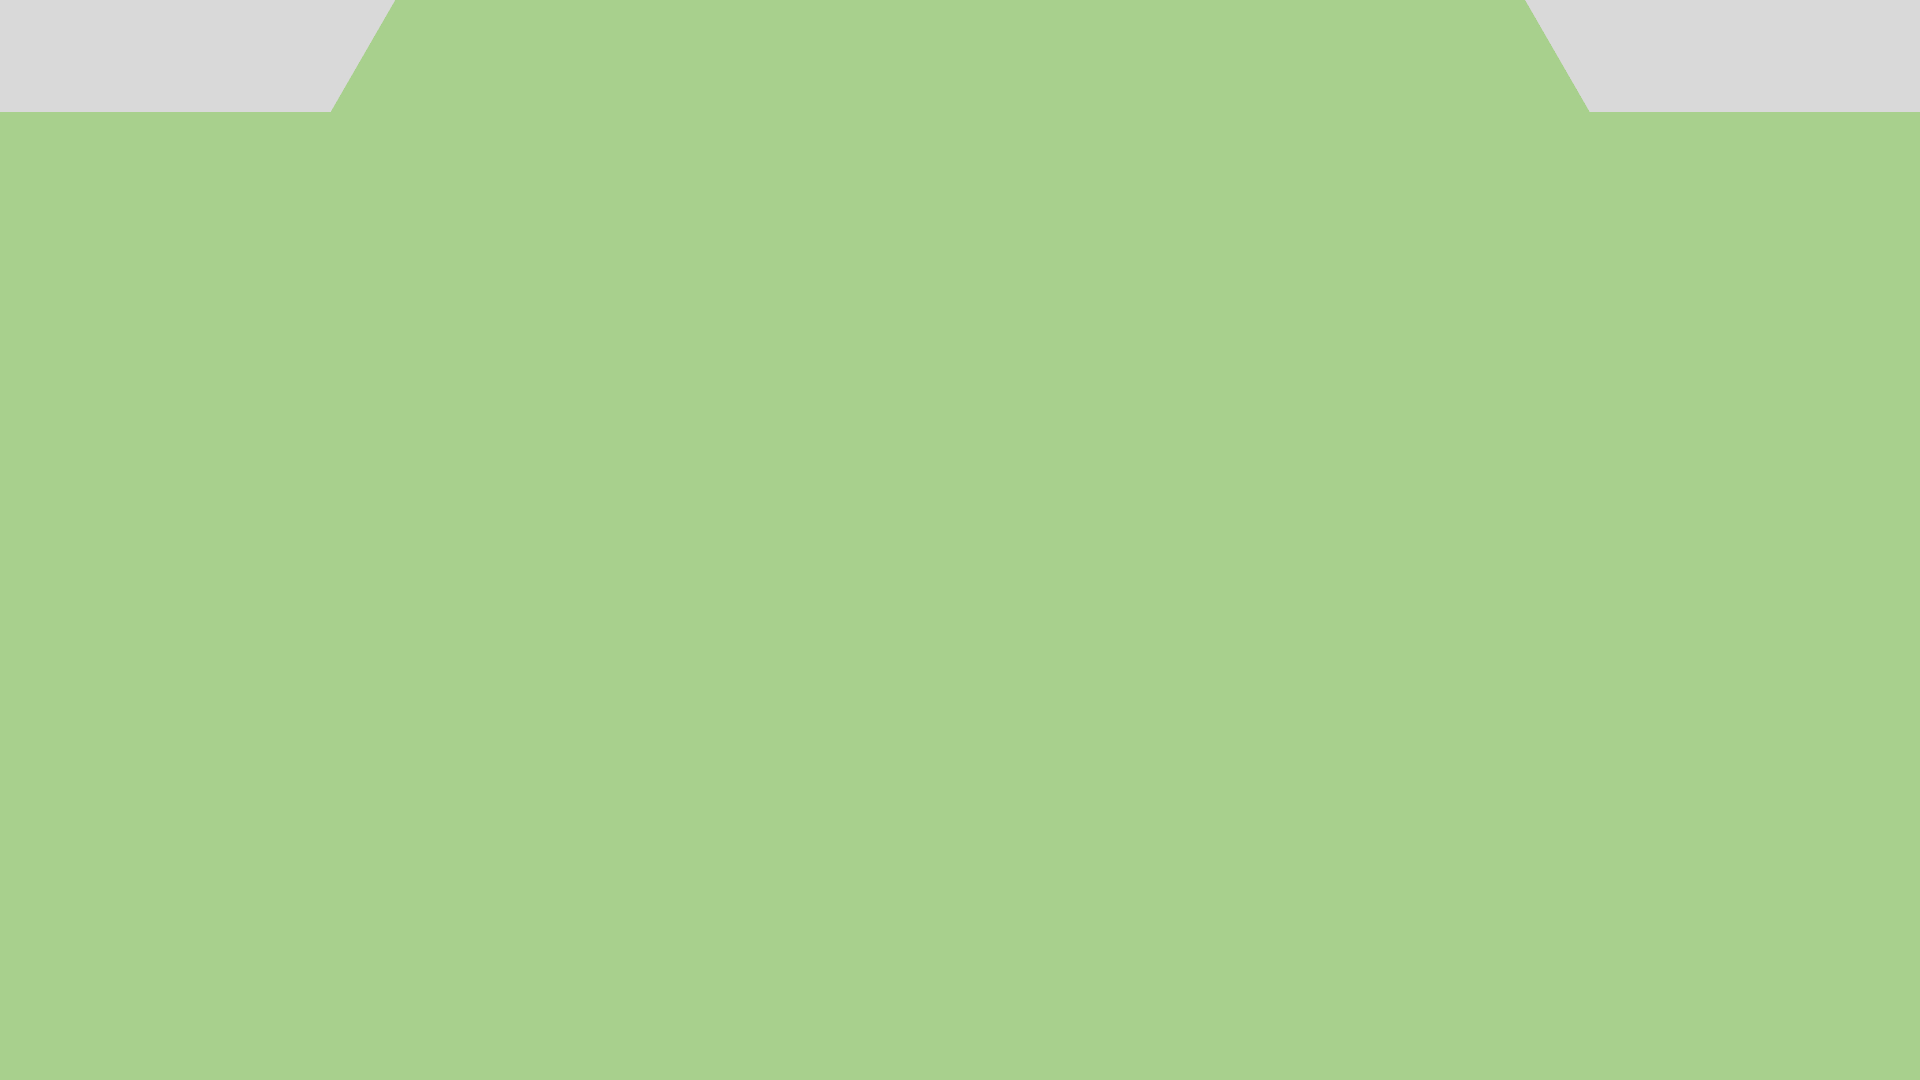
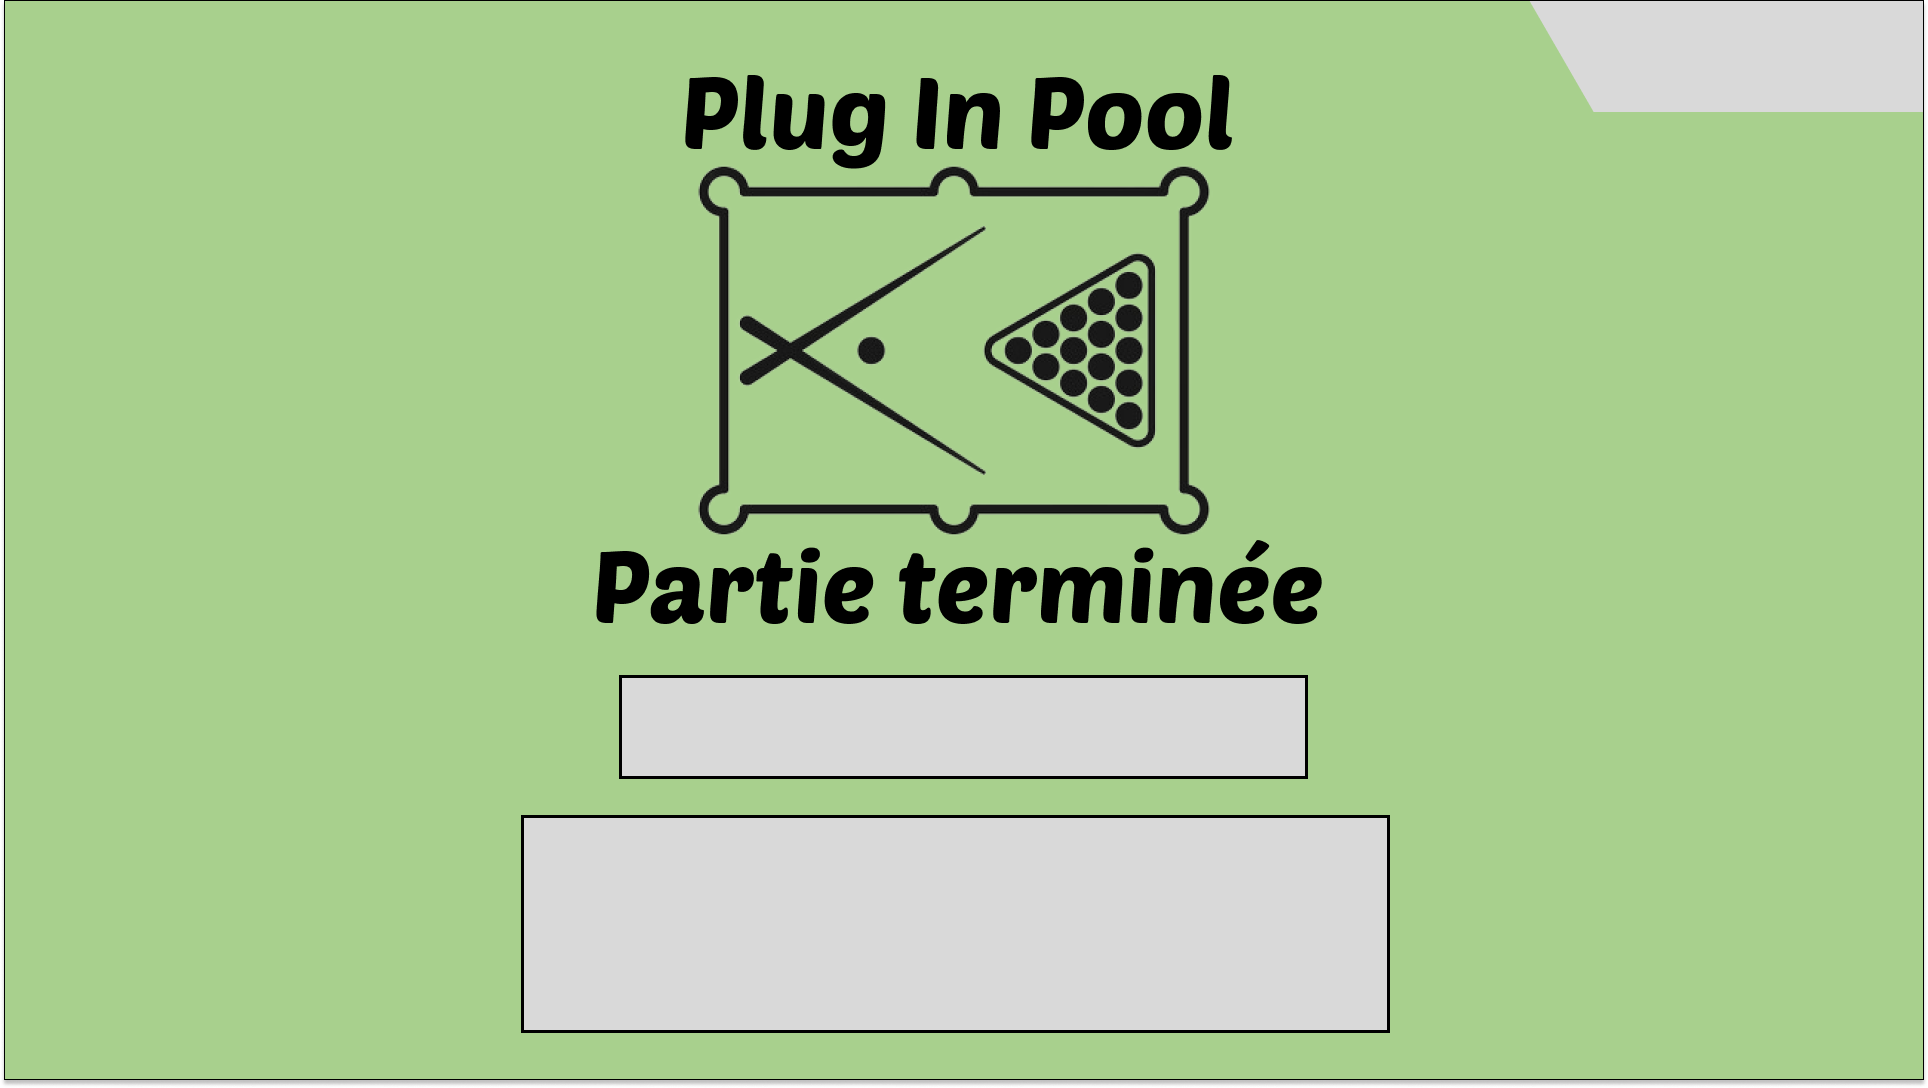
Afficher le joueur gagnant

diff --git a/plug-in-pool-visualisation/pluginpool.css b/plug-in-pool-visualisation/pluginpool.css
@@ -524,3 +524,13 @@ QWidget#ecranFin {
     margin: 0px;
     padding: 0px;
 }
+
+QLabel#affichageJoueurGagnant {
+    font-size: 45px;
+    background-color: none;
+    border: none;
+    text-align: center;
+    font-family: 'REM';
+    margin: 0px;
+    padding: 0px;
+}

diff --git a/plug-in-pool-visualisation/pluginpool.cpp b/plug-in-pool-visualisation/pluginpool.cpp
@@ -33,6 +33,11 @@ PlugInPool::PlugInPool(QObject* parent) :
             &CommunicationBluetooth::trameEmpochageRecue,
             this,
             &PlugInPool::empochage);
+
+    connect(communicationBluetooth,
+            &CommunicationBluetooth::tramePartieTermineeRecue,
+            this,
+            &PlugInPool::terminerPartie);
 }
 
 PlugInPool::~PlugInPool()
@@ -72,10 +77,7 @@ void PlugInPool::configurerMatch(int     nbManches,
                                           prenomJoueur2);
     EcranAccueil* ecranAccueil = ecranPlugInPool->getEcranAccueil();
     ecranAccueil->afficherEtatConfiguration("Configuration terminée");
-
-    QTimer::singleShot(TEMPS_AVANT_LANCEMENT_RENCONTRE,
-                       this,
-                       &PlugInPool::changerEcranMatch);
+    changerEcranMatch();
 }
 
 void PlugInPool::empochageCasse(int idPartie,
@@ -170,6 +172,16 @@ void PlugInPool::empochage(int idJoueur, int couleurBille, int idPoche)
     ecranMatch->demarrerCompteAReboursManche(TEMPS_COMPTE_A_REBOURS);
 }
 
+void PlugInPool::terminerPartie(int idPartie, int idJoueurGagnant)
+{
+    qDebug() << Q_FUNC_INFO << "idPartie" << idPartie << "idJoueurGagnant"
+             << idJoueurGagnant;
+    EcranFin* ecranFin      = ecranPlugInPool->getEcranFin();
+    QString   prenomGagnant = match->getPrenomJoueur(idJoueurGagnant);
+    ecranFin->afficherJoueurGagnant(prenomGagnant + " a gagné(e) cette partie");
+    changerEcranFin();
+}
+
 void PlugInPool::changerEcranMatch()
 {
     qDebug() << Q_FUNC_INFO;
@@ -177,4 +189,9 @@ void PlugInPool::changerEcranMatch()
     ecranPlugInPool->afficherEcranMatch();
     ecranMatch->demarrerChronometre();
     ecranMatch->demarrerCompteAReboursManche(TEMPS_COMPTE_A_REBOURS);
+}
+
+void PlugInPool::changerEcranFin()
+{
+    ecranPlugInPool->afficherEcranFin();
 }

diff --git a/plug-in-pool-visualisation/ecranfin.cpp b/plug-in-pool-visualisation/ecranfin.cpp
@@ -4,6 +4,31 @@
 EcranFin::EcranFin(QWidget* parent) : QObject(parent), ecran(parent)
 {
     qDebug() << Q_FUNC_INFO << this;
+
+    qDebug() << Q_FUNC_INFO << this;
+
+    affichageVersion       = new QLabel("v1.0", ecran);
+    affichageJoueurGagnant = new QLabel("Aucun joueur gagnant", ecran);
+
+    affichageVersion->setObjectName("affichageVersion");
+    affichageJoueurGagnant->setObjectName("affichageJoueurGagnant");
+
+    QVBoxLayout* ecranFin            = new QVBoxLayout(ecran);
+    QHBoxLayout* espaceVersion       = new QHBoxLayout();
+    QHBoxLayout* espaceJoueurGagnant = new QHBoxLayout();
+
+    espaceVersion->addStretch();
+    espaceVersion->addWidget(affichageVersion);
+
+    espaceJoueurGagnant->addStretch();
+    espaceJoueurGagnant->addWidget(affichageJoueurGagnant);
+    espaceJoueurGagnant->addStretch();
+
+    ecranFin->addLayout(espaceVersion);
+    ecranFin->addSpacing(600);
+    ecranFin->addLayout(espaceJoueurGagnant);
+    ecranFin->addSpacing(80);
+    ecranFin->addStretch();
 }
 
 EcranFin::~EcranFin()
@@ -14,4 +39,11 @@ EcranFin::~EcranFin()
 QWidget* EcranFin::getEcran() const
 {
     return ecran;
+}
+
+void EcranFin::afficherJoueurGagnant(QString prenomJoueurGagnant)
+{
+    affichageJoueurGagnant->setText(prenomJoueurGagnant);
+    affichageJoueurGagnant->setProperty("class", "configure");
+    affichageJoueurGagnant->style()->polish(affichageJoueurGagnant);
 }

diff --git a/plug-in-pool-visualisation/communicationbluetooth.cpp b/plug-in-pool-visualisation/communicationbluetooth.cpp
@@ -136,6 +136,14 @@ void CommunicationBluetooth::lireTrame()
                     emit trameEmpochageRecue(idJoueur, couleurBille, idPoche);
                     break;
                 }
+                case TRAME_PARTIE_TERMINEE:
+                {
+                    int idPartie = contenuTrame[POSITION_ID_PARTIE].toInt();
+                    int idJoueurGagnant =
+                      contenuTrame[POSITION_ID_JOUEUR_GAGNANT].toInt();
+                    emit tramePartieTermineeRecue(idPartie, idJoueurGagnant);
+                    break;
+                }
                 default:
                 {
                     break;

diff --git a/plug-in-pool-visualisation/communicationbluetooth.h b/plug-in-pool-visualisation/communicationbluetooth.h
@@ -29,6 +29,10 @@
 #define POSITION_COULEUR_BILLE_MANCHE 2
 #define POSITION_ID_POCHE_MANCHE      3
 
+#define TRAME_PARTIE_TERMINEE      'T'
+#define POSITION_ID_PARTIE         1
+#define POSITION_ID_JOUEUR_GAGNANT 2
+
 class CommunicationBluetooth : public QObject
 {
     Q_OBJECT
@@ -52,6 +56,7 @@ class CommunicationBluetooth : public QObject
                          char couleurBille,
                          int  idPoche);
     void trameEmpochageRecue(int idJoueur, int couleurBille, int idPoche);
+    void tramePartieTermineeRecue(int idPartie, int idJoueurGagnant);
 
   private slots:
     void connecterClient();

diff --git a/plug-in-pool-visualisation/ecranfin.h b/plug-in-pool-visualisation/ecranfin.h
@@ -1,18 +1,21 @@
 #ifndef ECRANFIN_H
 #define ECRANFIN_H
 
-#include <QWidget>
+#include <QtWidgets>
 
 class EcranFin : public QObject
 {
     Q_OBJECT
   private:
     QWidget* ecran;
+    QLabel*  affichageVersion;
+    QLabel*  affichageJoueurGagnant;
 
   public:
     explicit EcranFin(QWidget* parent = nullptr);
     virtual ~EcranFin();
     QWidget* getEcran() const;
+    void     afficherJoueurGagnant(QString PrenomJoueurGagnant);
 
   signals:
 };

diff --git a/plug-in-pool-visualisation/pluginpool.h b/plug-in-pool-visualisation/pluginpool.h
@@ -33,7 +33,9 @@ class PlugInPool : public QObject
                         int couleurBille,
                         int idPoche);
     void empochage(int idJoueur, int couleurBille, int idPoche);
+    void terminerPartie(int idPartie, int idJoueurGagnant);
     void changerEcranMatch();
+    void changerEcranFin();
 };
 
 #endif // PLUGINPOOL_H

diff --git a/plug-in-pool-visualisation/ecranpluginpool.h b/plug-in-pool-visualisation/ecranpluginpool.h
@@ -71,6 +71,7 @@ class EcranPlugInPool : public QWidget
 
     EcranAccueil* getEcranAccueil() const;
     EcranMatch*   getEcranMatch() const;
+    EcranFin*     getEcranFin() const;
 };
 
 #endif // ECRANPLUGINPOOL_H

diff --git a/plug-in-pool-visualisation/ecranpluginpool.cpp b/plug-in-pool-visualisation/ecranpluginpool.cpp
@@ -90,3 +90,8 @@ EcranMatch* EcranPlugInPool::getEcranMatch() const
 {
     return ecranMatch;
 }
+
+EcranFin* EcranPlugInPool::getEcranFin() const
+{
+    return ecranFin;
+}
